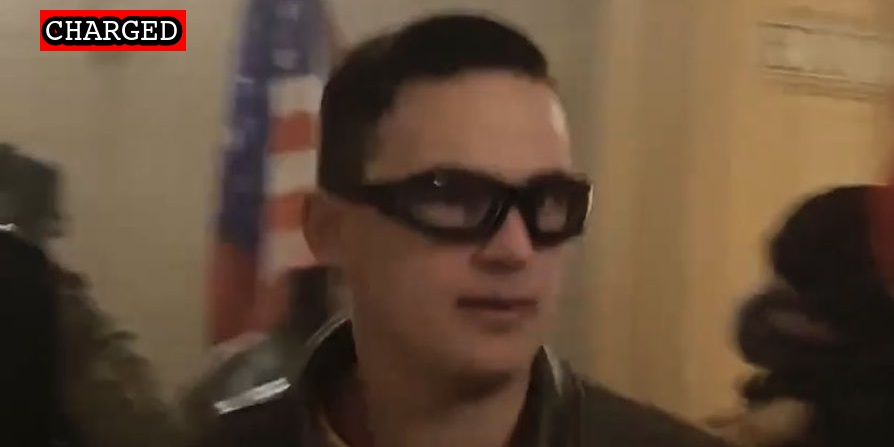
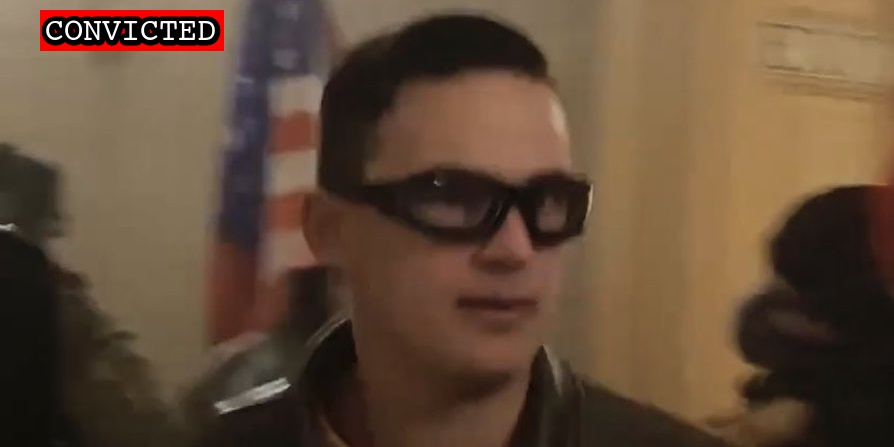
Latest convictions

Changed region(s): [[0.0604, 0.0, 0.2718, 0.1163]]

diff --git a/docs/_suspects/joshua-hughes.md b/docs/_suspects/joshua-hughes.md
@@ -4,15 +4,18 @@ lastName: Hughes
 hashtag: ElfNazi
 aka:
 residence: Montana
-status: Indicted
+status: Convicted
 date: 2021-01-28
 charged: 2021-01-28
 indicted: 2021-02-10
-convicted:
+convicted: 2022-08-25
+acquitted:
 sentenced:
 dismissed:
 deceased:
 plea_hearing: 2022-08-25
+trial_date:
+trial_type:
 sentencing:
 age: 37
 occupation:
@@ -34,11 +37,17 @@ published: true
 caseNumber: 1:21-cr-106
 videos:
 charges:
+  - code: 18 USC § 1512(c)(2),2
+    title: Obstruction of an Official Proceeding (Aiding and Abetting)
+    url: https://www.law.cornell.edu/uscode/text/18/1512
+    felony: true
 sentence:
 ---
 
 - [News Report](https://helenair.com/news/local/a-closer-look-at-the-east-helena-brothers-arrested-in-capitol-riot/article_0efda0dd-39e7-5650-8a5c-2ebdc03579b5.html)
 - [Statement of Facts](https://www.justice.gov/opa/page/file/1364151/download)
-- [Indictment](https://www.justice.gov/usao-dc/case-multi-defendant/file/1371626/download)
+- [Indictment](https://www.justice.gov/usao-dc/case-multi-defendant/file/1528976/download)
 - [Defense Motion for Release](https://extremism.gwu.edu/sites/g/files/zaxdzs2191/f/Joshua%20Calvin%20Hughes%20Defense%20Motion%20to%20Amend%20Order%20of%20Detention.pdf)
 - [Detention Order](https://extremism.gwu.edu/sites/g/files/zaxdzs2191/f/Joshua%20Calvin%20Hughes%20Defense%20Motion%20to%20Amend%20Order%20of%20Detention.pdf)
+- [Plea Agreement](https://www.justice.gov/usao-dc/case-multi-defendant/file/1528986/download)
+- [Statement of Offense](https://www.justice.gov/usao-dc/case-multi-defendant/file/1528991/download)

diff --git a/docs/_suspects/jerod-hughes.md b/docs/_suspects/jerod-hughes.md
@@ -4,15 +4,18 @@ lastName: Hughes
 hashtag: FuzzyPinhead
 aka:
 residence: Montana
-status: Indicted
+status: Convicted
 date: 2021-01-28
 charged: 2021-01-28
 indicted: 2021-02-10
-convicted:
+convicted: 2022-08-25
+acquitted:
 sentenced:
 dismissed:
 deceased:
 plea_hearing: 2022-08-25
+trial_date:
+trial_type:
 sentencing:
 age: 36
 occupation:
@@ -34,10 +37,16 @@ published: true
 caseNumber: 1:21-cr-106
 videos:
 charges:
+  - code: 18 USC § 1512(c)(2),2
+    title: Obstruction of an Official Proceeding (Aiding and Abetting)
+    url: https://www.law.cornell.edu/uscode/text/18/1512
+    felony: true
 sentence:
 ---
 
 - [News Report](https://helenair.com/news/local/a-closer-look-at-the-east-helena-brothers-arrested-in-capitol-riot/article_0efda0dd-39e7-5650-8a5c-2ebdc03579b5.html)
 - [Statement of Facts](https://www.justice.gov/opa/page/file/1364151/download)
-- [Indictment](https://www.justice.gov/usao-dc/case-multi-defendant/file/1371626/download)
+- [Indictment](https://www.justice.gov/usao-dc/case-multi-defendant/file/1528956/download)
 - [Supplement to Government's Opposition to Defendant's Motion for Conditional Release](https://extremism.gwu.edu/sites/g/files/zaxdzs2191/f/Jerod%20Wade%20Hughes%20Supplement%20to%20Government%20Opposition%20to%20Defense%20Motion%20for%20Conditional%20Release.pdf)
+- [Plea Agreement](https://www.justice.gov/usao-dc/case-multi-defendant/file/1528966/download)
+- [Statement of Offense](https://www.justice.gov/usao-dc/case-multi-defendant/file/1528971/download)

diff --git a/docs/_suspects/jeremy-baouche.md b/docs/_suspects/jeremy-baouche.md
@@ -4,16 +4,19 @@ lastName: Baouche
 hashtag: DickRobin
 aka:
 residence: Connecticut
-status: Charged
+status: Convicted
 date: 2021-11-02
 charged: 2021-11-02
 indicted:
-convicted:
+convicted: 2022-08-25
+acquitted:
 sentenced:
 dismissed:
 deceased:
 plea_hearing: 2022-08-25
-sentencing:
+trial_date:
+trial_type:
+sentencing: 2023-01-10
 age: 24
 occupation:
 affiliations:
@@ -31,12 +34,16 @@ description: Click for latest case details. Suspects innocent until proven guilt
 author: seditiontrack
 layout: suspect
 published: true
-caseNumber:
+caseNumber: 1:21-cr-733
 videos:
 charges:
+  - code: 40 USC § 5104(e)(2)(G)
+    title: Parading, demonstrating or picketing in a Capitol building
+    url: https://www.law.cornell.edu/uscode/text/40/5104
+    felony: false
 sentence:
 ---
 
 - [News Report](https://www.courant.com/breaking-news/hc-br-new-london-man-arrested-capitol-riot-20211112-34gykmlotvhs7drrykkdl6g4pi-story.html)
-- [Statement of Facts](https://extremism.gwu.edu/sites/g/files/zaxdzs2191/f/Jeremy%20Baouche%20Statement%20of%20Facts.pdf)
-- [Information](https://extremism.gwu.edu/sites/g/files/zaxdzs2191/f/Jeremy%20Baouche%20Information.pdf)
+- [Statement of Facts](https://www.justice.gov/usao-dc/case-multi-defendant/file/1528881/download)
+- [Information](https://www.justice.gov/usao-dc/case-multi-defendant/file/1528886/download)
